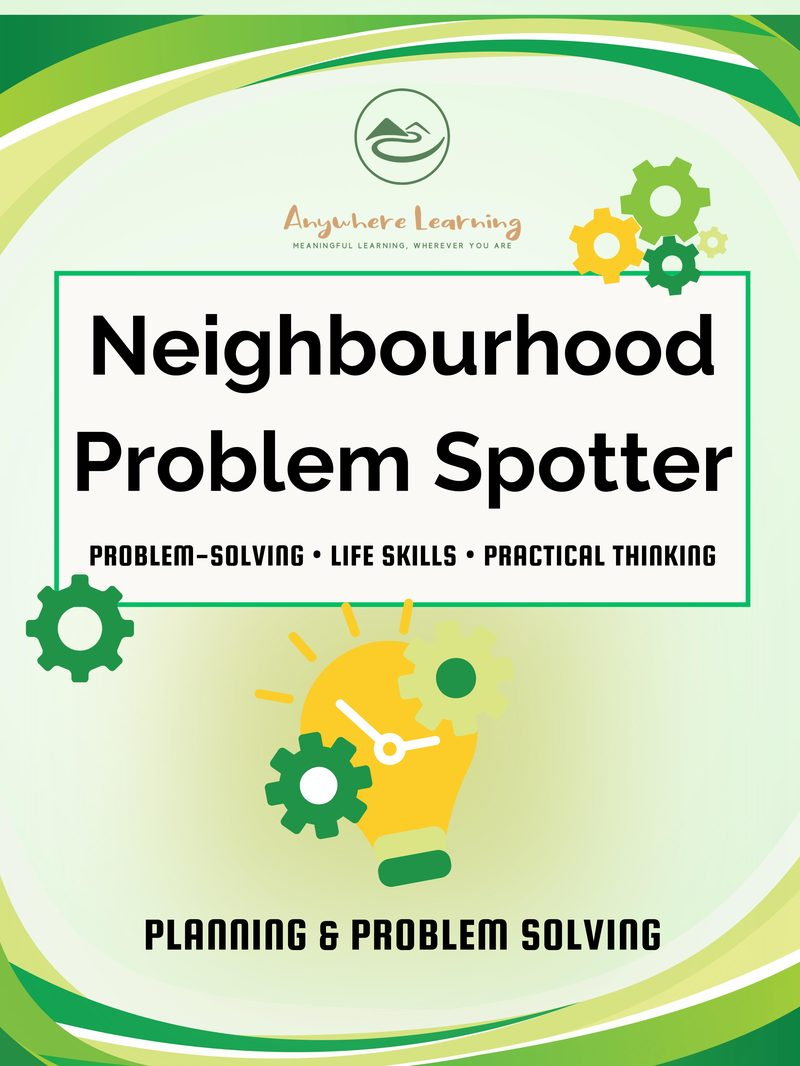
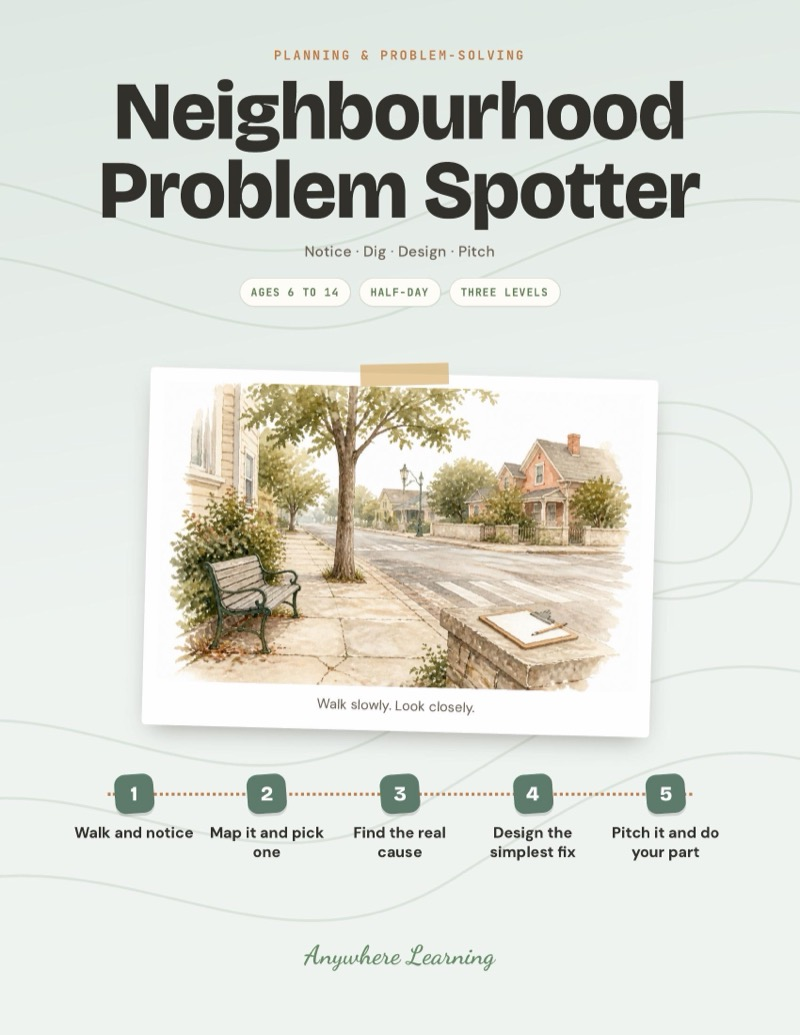
Neighbourhood Problem Spotter: redesigned guide, watercolour cover, new listing, critical-thinking tag

diff --git a/scripts/seed.ts b/scripts/seed.ts
@@ -112,7 +112,7 @@ async function seed() {
     { name: 'Emergency Ready Challenge', slug: 'emergency-ready', description: 'Your child builds the family emergency plan for real: a map with two ways out of every room, a meeting spot outside, a fire drill you actually run and time, a three-day stay-home kit with the water worked out, and a contact card in every pocket. Then a surprise drill with a twist tests it. Calm, practical readiness that kids feel safer for knowing.', shortDescription: 'Life skills for kids ages 8-14: build a real family emergency plan, run the fire drill and pack a three-day kit.', priceCents: 599, compareAtPriceCents: null, stripePriceId: '', blobUrl: '', imageUrl: '/products/emergency-ready.jpg', category: 'planning-problem-solving', isBundle: false, bundleProductIds: null, activityCount: null, ageRange: 'Ages 8–14', sortOrder: 130, active: true },
     { name: 'Everyday Redesign Challenge', slug: 'everyday-redesign', description: 'Your child picks something at home that bugs everyone, like lost shoes, a cluttered counter or the dinner rush, and redesigns it for real. They count the problem for a week, interview the family, keep asking why until they find the real cause, then build a fix that makes the right thing the easy thing. A second week of counting shows whether it worked.', shortDescription: 'Design thinking for kids ages 6-14: measure a real problem at home, find the cause and test a fix for a week.', priceCents: 599, compareAtPriceCents: null, stripePriceId: '', blobUrl: '', imageUrl: '/products/everyday-redesign.jpg', category: 'planning-problem-solving', isBundle: false, bundleProductIds: null, activityCount: null, ageRange: 'Ages 6–14', sortOrder: 131, active: true },
     { name: 'Fix-It Detective', slug: 'fix-it-detective', description: 'Your child becomes the household repair detective. They hunt for things that are loose, stuck or not working, describe exactly what is wrong, check the easy suspects first, then plan a fix with you and test whether it held. A clear safety card spells out what kids can open and what stays with an adult.', shortDescription: 'Problem-solving for kids ages 6-14: diagnose and fix real things around the house, safely and step by step.', priceCents: 599, compareAtPriceCents: null, stripePriceId: '', blobUrl: '', imageUrl: '/products/fix-it-detective.jpg', category: 'planning-problem-solving', isBundle: false, bundleProductIds: null, activityCount: null, ageRange: 'Ages 6–14', sortOrder: 132, active: true },
-    { name: 'Neighbourhood Problem Spotter', slug: 'neighbourhood-problem-spotter', description: 'Observe your neighbourhood, spot real problems, and brainstorm solutions.', shortDescription: 'Spot and solve neighbourhood problems.', priceCents: 599, compareAtPriceCents: null, stripePriceId: '', blobUrl: '', imageUrl: '/products/neighbourhood-problem-spotter.jpg', category: 'planning-problem-solving', isBundle: false, bundleProductIds: null, activityCount: null, ageRange: 'Ages 6–14', sortOrder: 133, active: true },
+    { name: 'Neighbourhood Problem Spotter', slug: 'neighbourhood-problem-spotter', description: 'Your child walks the neighbourhood with you and looks at it like a detective. They spot what could work better, pick one problem worth solving, gather real evidence and find out why it happens. Then they design the simplest fix that could work, pitch it to someone who can say yes, and take care of one small part themselves.', shortDescription: 'Civic problem-solving for kids ages 6-14: spot a real problem nearby, find the cause and pitch a simple fix.', priceCents: 599, compareAtPriceCents: null, stripePriceId: '', blobUrl: '', imageUrl: '/products/neighbourhood-problem-spotter.jpg', category: 'planning-problem-solving', isBundle: false, bundleProductIds: null, activityCount: null, ageRange: 'Ages 6–14', sortOrder: 133, active: true },
     { name: 'Outdoor Survival Planner', slug: 'outdoor-survival-planner', description: 'Plan outdoor expeditions, think through scenarios, and build survival skills.', shortDescription: 'Plan outdoor survival adventures.', priceCents: 599, compareAtPriceCents: null, stripePriceId: '', blobUrl: '', imageUrl: '/products/outdoor-survival-planner.jpg', category: 'planning-problem-solving', isBundle: false, bundleProductIds: null, activityCount: null, ageRange: 'Ages 8–14', sortOrder: 134, active: true },
     { name: 'Pack Like a Pro', slug: 'pack-like-a-pro', description: 'Master strategic packing: priorities, weight, space, and logistics.', shortDescription: 'Strategic packing and planning.', priceCents: 599, compareAtPriceCents: null, stripePriceId: '', blobUrl: '', imageUrl: '/products/pack-like-a-pro.jpg', category: 'planning-problem-solving', isBundle: false, bundleProductIds: null, activityCount: null, ageRange: 'Ages 6–14', sortOrder: 135, active: true },
     { name: 'Scavenger Hunt Designer', slug: 'scavenger-hunt-designer', description: 'Design, create, and test your own scavenger hunts for friends and family.', shortDescription: 'Design your own scavenger hunts.', priceCents: 599, compareAtPriceCents: null, stripePriceId: '', blobUrl: '', imageUrl: '/products/scavenger-hunt-designer.jpg', category: 'planning-problem-solving', isBundle: false, bundleProductIds: null, activityCount: null, ageRange: 'Ages 6–14', sortOrder: 136, active: true },

diff --git a/lib/product-descriptions.ts b/lib/product-descriptions.ts
@@ -2087,23 +2087,24 @@ export const productDescriptions: Record<string, ProductDescription> = {
   },
   'neighbourhood-problem-spotter': {
     opening:
-      'Walk your neighbourhood with fresh eyes. Spot real problems, think about causes, and brainstorm solutions. Kids practise observation, critical thinking, and civic engagement. Problem-solving that connects kids to the place they live and the people around them.',
+      'Your child walks the neighbourhood with you and looks at it like a detective. They spot what could work better, pick one problem worth solving, gather real evidence and find out why it happens. Then they design the simplest fix that could work, pitch it to someone who can say yes, and take care of one small part themselves.',
     whatsIncluded: [
-      'Neighbourhood observation walk guide',
-      'Problem identification and categorisation',
-      'Root cause analysis activities',
-      'Solution brainstorming and feasibility assessment',
-      'Community proposal or presentation project',
+      'A 5-step guide from the first walk to a real pitch',
+      'A worked example that turns a grumble into a proposal',
+      'What to look for card and Pick one card',
+      'Who looks after it card and 30-second Pitch it card',
+      'Proposal page to fill in and send',
     ],
-    skillTags: ['Observation', 'Critical Thinking', 'Civic Engagement', 'Problem-Solving', 'Community'],
+    skillTags: ['Critical Thinking', 'Civic Engagement', 'Problem-Solving', 'Observation', 'Communication'],
     insideTheLearning: {
       lead:
-        'Your child walks their own neighbourhood looking for what does not work, then researches why. Root cause, not symptom. They propose a fix, check whether it is actually feasible, and then have to persuade somebody it is worth doing.',
+        'Your child learns the difference between a complaint and a proposal. They walk their own neighbourhood, count what they see, talk to the people it affects and keep asking why. Then they make a short case to the person who can actually do something about it.',
       skills: [
-        { skill: 'Critical Thinking', where: 'Observing, analysing and evaluating what is really wrong with a shared space' },
-        { skill: 'Research', where: 'Investigating the causes and the options that already exist' },
-        { skill: 'Problem-Solving', where: 'Proposing a solution and assessing honestly whether it could work' },
-        { skill: 'Communication', where: 'Presenting the case and persuading someone who can act on it' },
+        { skill: 'Critical Thinking', where: 'Getting from what they see to what is really causing it' },
+        { skill: 'Math', where: 'Counting, tallying and comparing across several visits' },
+        { skill: 'Geography', where: 'Mapping the route and looking for patterns on the map' },
+        { skill: 'Problem-Solving', where: 'Choosing the simplest fix and answering objections' },
+        { skill: 'Communication', where: 'Making a 30-second case to someone who can say yes' },
       ],
     },
     format: 'Project Guide',

diff --git a/lib/fallback-products.ts b/lib/fallback-products.ts
@@ -1844,15 +1844,15 @@ export const fallbackProducts: FallbackProduct[] = [
     name: "Neighbourhood Problem Spotter",
     slug: "neighbourhood-problem-spotter",
     description:
-      "Walk your neighbourhood with fresh eyes. Spot real problems, think about causes, and brainstorm solutions. Kids practise observation, critical thinking, and civic engagement. The kind of problem-solving that connects kids to their community.",
+      "Your child walks the neighbourhood with you and looks at it like a detective. They spot what could work better, pick one problem worth solving, gather real evidence and find out why it happens. Then they design the simplest fix that could work, pitch it to someone who can say yes, and take care of one small part themselves.",
     shortDescription:
-      "Problem-solving for kids ages 6-14: spot and solve real neighbourhood problems. Observation meets action.",
+      "Civic problem-solving for kids ages 6-14: spot a real problem nearby, find the cause and pitch a simple fix.",
     priceCents: 599,
     compareAtPriceCents: null,
     stripePriceId: "price_1TLo8ZAkIBECpwGmeHYEEPmY",
     blobUrl: "",
     imageUrl: "/products/neighbourhood-problem-spotter.jpg",
-    previewFile: "Preview Planning & Problem-Solving Neighbourhood Problem Spotter.pdf",
+    previewFile: "Preview Planning & Problem-Solving Neighbourhood Problem Spotter v3.pdf",
     category: "planning-problem-solving",
     isBundle: false,
     bundleProductIds: null,

diff --git a/lib/activity-blob-urls.ts b/lib/activity-blob-urls.ts
@@ -83,7 +83,7 @@ export const ACTIVITY_BLOB_URLS: Record<string, string> = {
   "nature-journal-walks": "https://xkj3tzlgu6ylgllk.public.blob.vercel-storage.com/Outdoor%20Learning%20-%20My%20nature%20journal%20v7.pdf",
   "nature-walk-task-cards": "https://xkj3tzlgu6ylgllk.public.blob.vercel-storage.com/Outdoor%20Learning%20-%20Nature%20Walk%20Task%20Cards%20v9.pdf",
   "neighbourhood-interview": "https://xkj3tzlgu6ylgllk.public.blob.vercel-storage.com/Communication%20%26%20Writing%20-%20Neighbourhood%20Interview%20Project%20v6.pdf",
-  "neighbourhood-problem-spotter": "https://xkj3tzlgu6ylgllk.public.blob.vercel-storage.com/Planning%20%26%20Problem-Solving%20Neighbourhood%20Problem%20Spotter%20v2.pdf",
+  "neighbourhood-problem-spotter": "https://xkj3tzlgu6ylgllk.public.blob.vercel-storage.com/Planning%20%26%20Problem-Solving%20Neighbourhood%20Problem%20Spotter%20v3.pdf",
   "outdoor-learning-missions": "https://xkj3tzlgu6ylgllk.public.blob.vercel-storage.com/Outdoor%20Learning%20-%20Outdoor%20learning%20missions%20v8.pdf",
   "outdoor-movement-challenge-cards": "https://xkj3tzlgu6ylgllk.public.blob.vercel-storage.com/Outdoor%20Movement%20Challenge%20Cards%20v7.pdf",
   "outdoor-stem-challenges": "https://xkj3tzlgu6ylgllk.public.blob.vercel-storage.com/Outdoor%20Learning%20-%20Outdoor%20STEM%20Challenge%20Cards%20v9.pdf",

diff --git a/lib/roadmap.ts b/lib/roadmap.ts
@@ -454,6 +454,7 @@ const SUPPLEMENTAL_TERRITORY_TAGS: Record<string, string[]> = {
   'everyday-redesign': ['life-skills'],
   'travel-day': ['critical-thinking'],
   'fix-it-detective': ['critical-thinking'],
+  'neighbourhood-problem-spotter': ['critical-thinking'],
 };
 
 /**
